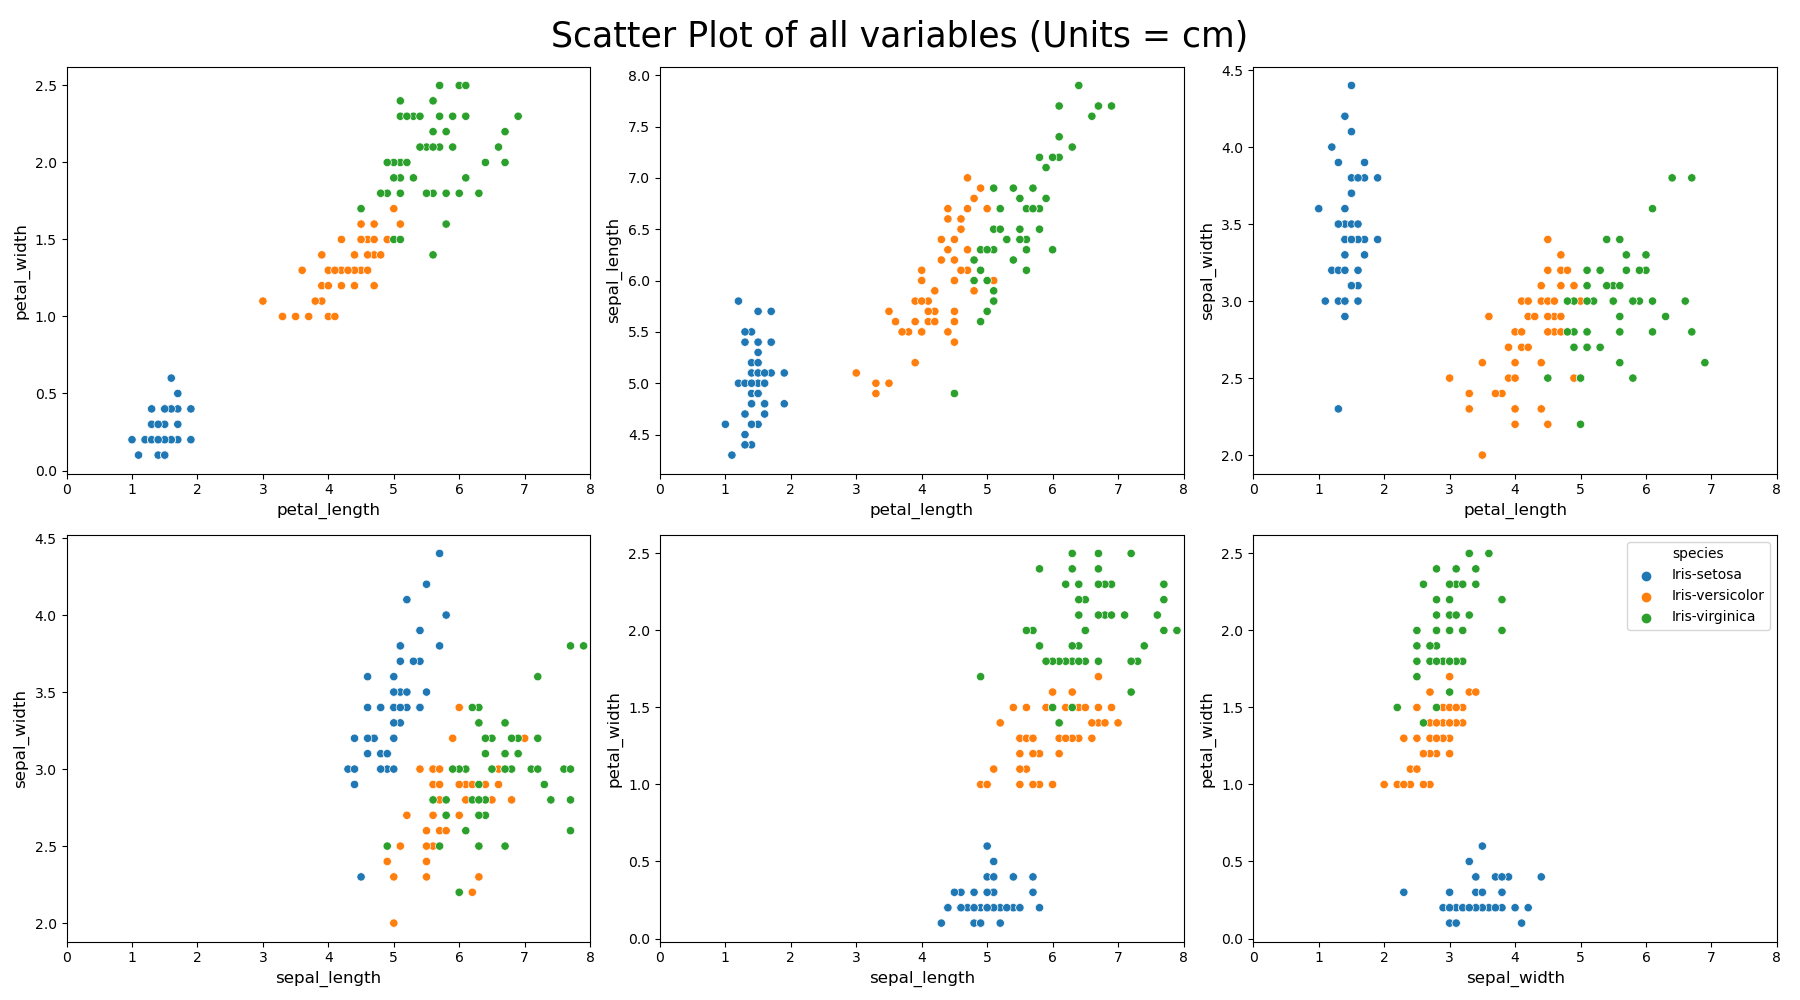
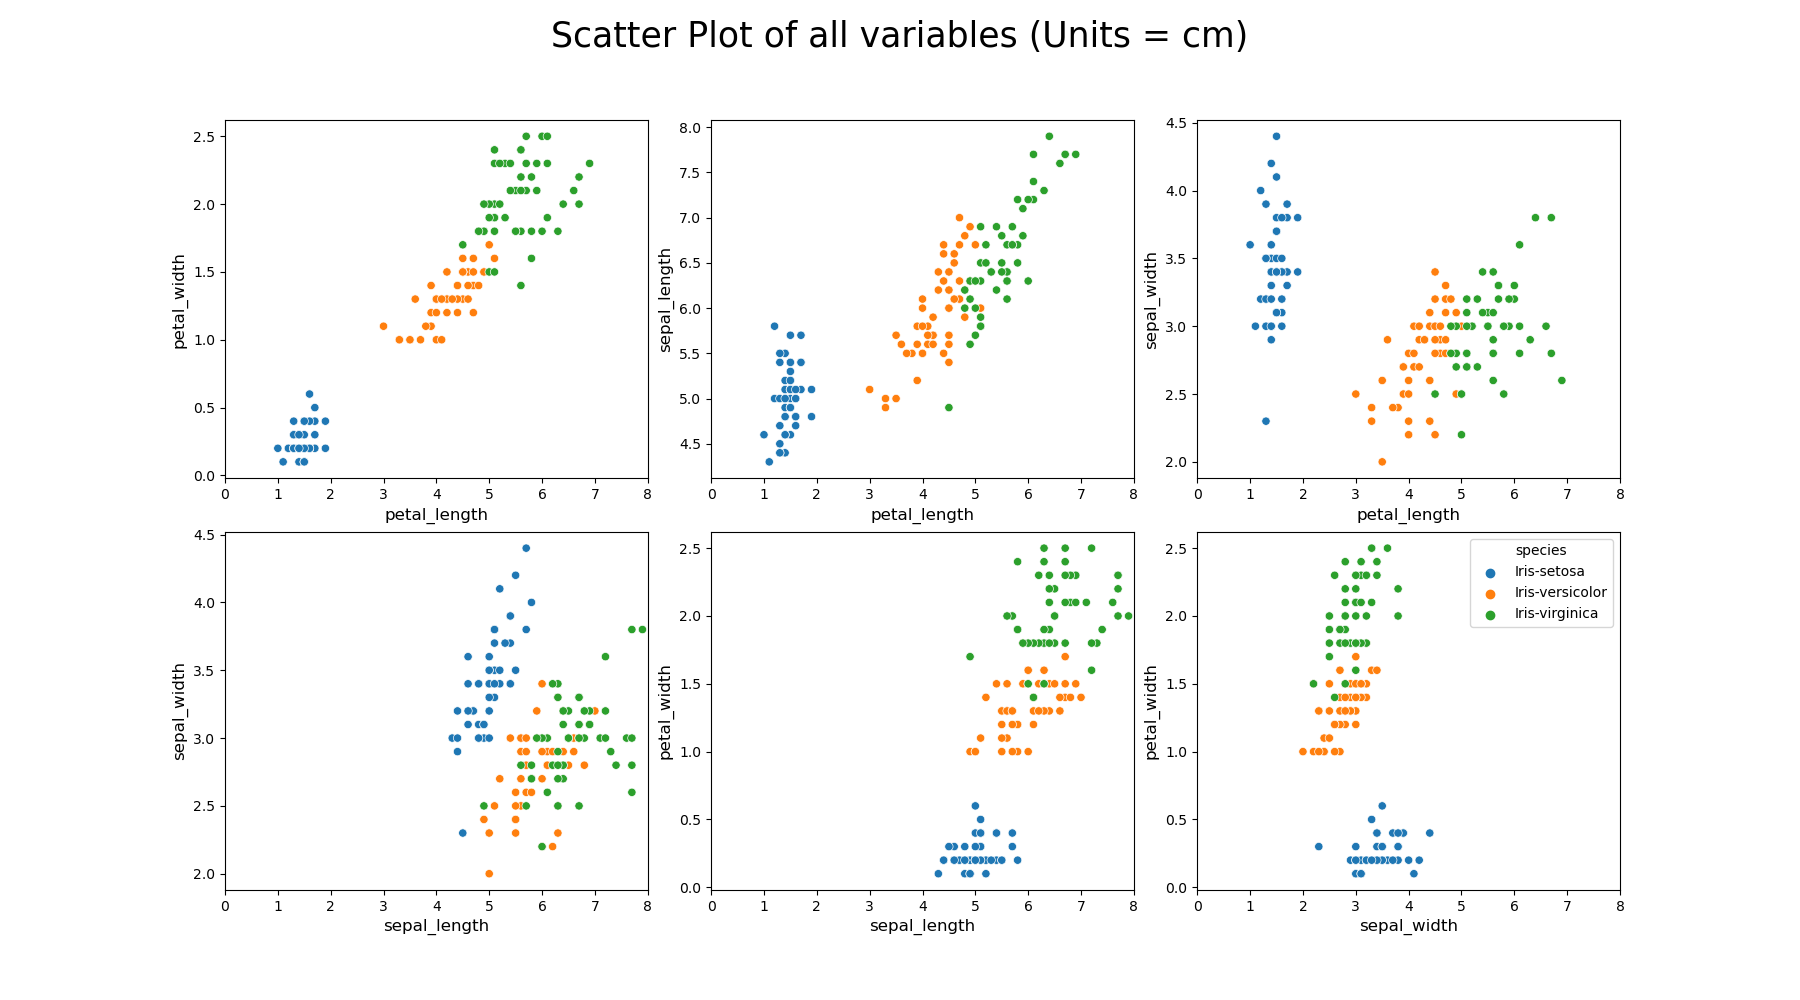
test

diff --git a/Project/analysis.py b/Project/analysis.py
@@ -62,7 +62,7 @@ def write_plot(plot,file_name):
 def scatter_plot(): 
 
     fig, axes = plt.subplots(2, 3, figsize=(18, 10))
-    plt.subplots_adjust(wspace=0.3, hspace=0.3)
+    plt.subplots_adjust(wspace=0.15,hspace=0.15)#  hspace=0.3
     fig.suptitle('Scatter Plot of all variables (Units = cm)',fontsize = 25)
     
     sns.scatterplot(ax=axes[0, 0], data=iris_df, x='petal_length', y='petal_width', hue = 'species',legend = False)
@@ -71,9 +71,7 @@ def scatter_plot():
     sns.scatterplot(ax=axes[1, 0], data=iris_df, x='sepal_length', y='sepal_width', hue = 'species',legend = False)
     sns.scatterplot(ax=axes[1, 1], data=iris_df, x='sepal_length', y='petal_width', hue = 'species',legend = False)
     sns.scatterplot(ax=axes[1, 2], data=iris_df, x='sepal_width',  y='petal_width', hue = 'species')
-    fig.tight_layout()
-    #plt.legend(fontsize='12', loc = 2 ,bbox_to_anchor=(0.675, 1),borderaxespad=0.,)
-
+    #fig.tight_layout()
 
     for ax in plt.gcf().axes:
         x = ax.get_xlabel()
@@ -95,8 +93,7 @@ def plot_histograms():
     sns.histplot(ax=axes[0, 1], data=iris_df, x='petal_width',  hue = 'species', bins = 20, legend = False)
     sns.histplot(ax=axes[1, 0], data=iris_df, x='sepal_length', hue = 'species', bins = 20, legend = False)
     sns.histplot(ax=axes[1, 1], data=iris_df, x='sepal_width',  hue = 'species', bins = 20)
-    #plt.legend(fontsize='14', labels = ['virginica', 'versicolor','setosa'], loc = 2 ,bbox_to_anchor=(0.795, 1),borderaxespad=0.,)
-    #fig.tight_layout()
+
     for ax in plt.gcf().axes:
         x = ax.get_xlabel()
         y = ax.get_ylabel()
